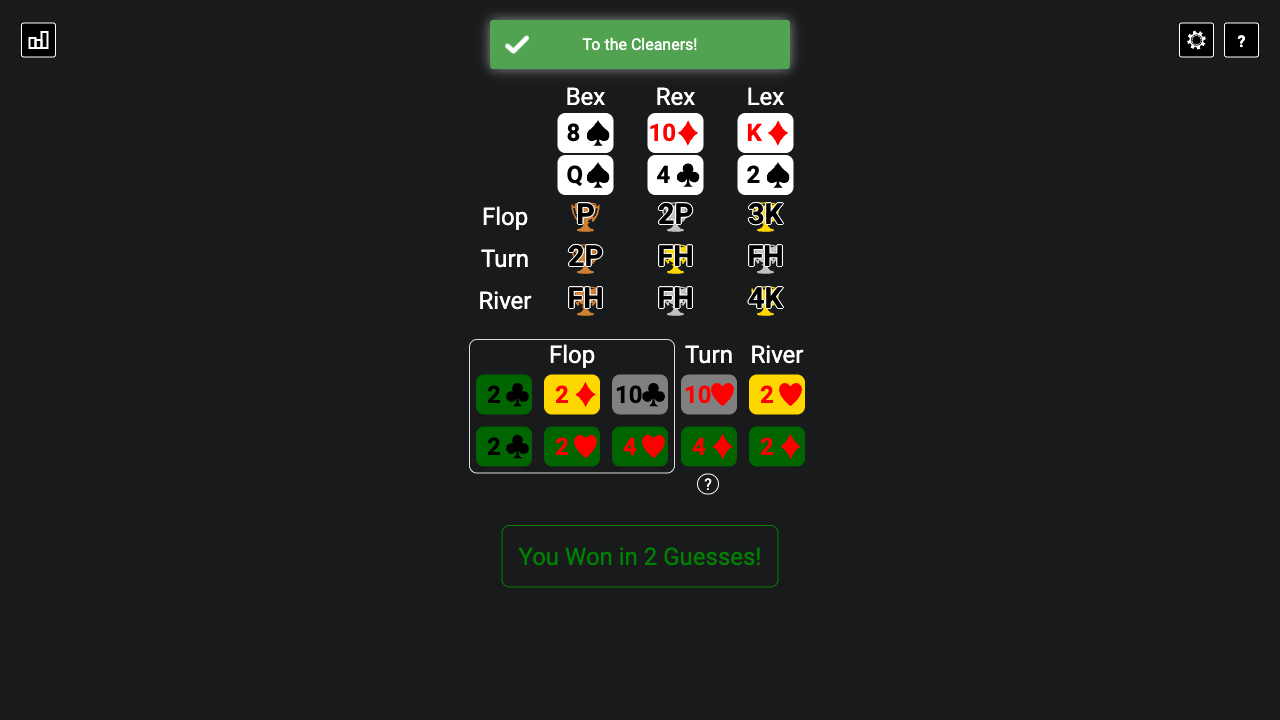
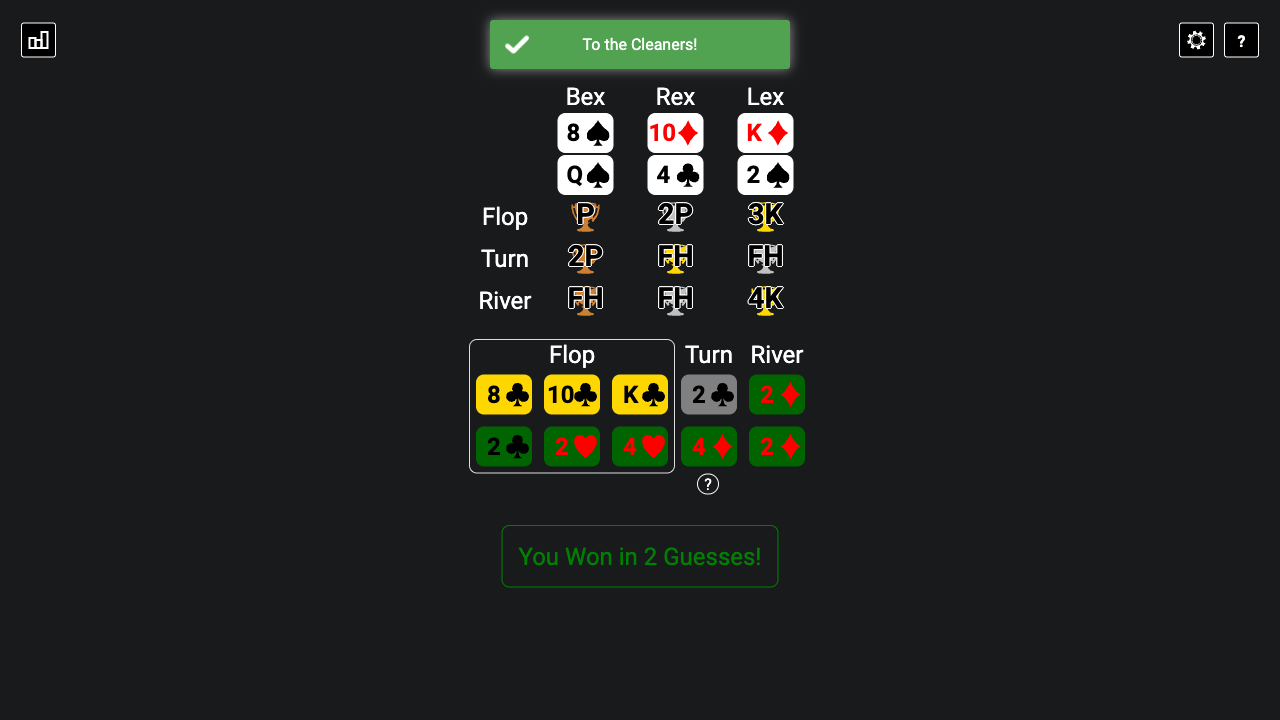
remove obvious kickers

Changed region(s): [[0.375, 0.5194, 0.6562, 0.5806]]

diff --git a/src/pokle/Pokle.test.ts b/src/pokle/Pokle.test.ts
@@ -7,7 +7,7 @@ describe("Pokle", () => {
     it("should have 46 valid cards", () => {
       const players: Players = [
         {
-          cards: [new Card("2", "♠"), new Card("3", "♠")],
+          cards: [new Card("2", "♠"), new Card("5", "♠")],
           name: "Jaz",
           positions: {
             flop: 1,
@@ -16,7 +16,7 @@ describe("Pokle", () => {
           },
         },
         {
-          cards: [new Card("4", "♠"), new Card("5", "♠")],
+          cards: [new Card("10", "♠"), new Card("K", "♠")],
           name: "Baz",
           positions: {
             flop: 2,
@@ -25,7 +25,7 @@ describe("Pokle", () => {
           },
         },
         {
-          cards: [new Card("6", "♠"), new Card("7", "♠")],
+          cards: [new Card("A", "♠"), new Card("8", "♠")],
           name: "Taz",
           positions: {
             flop: 3,
@@ -38,6 +38,42 @@ describe("Pokle", () => {
       const pokle = new Pokle(0, players);
       pokle.getAllValidCards();
       expect((pokle.validCards ?? []).length).toBe(46);
+    });
+
+    it("should have 42 valid cards because all the 2s are obvious kickers", () => {
+      const players: Players = [
+        {
+          cards: [new Card("7", "♠"), new Card("9", "♠")],
+          name: "Jaz",
+          positions: {
+            flop: 1,
+            river: 2,
+            turn: 3,
+          },
+        },
+        {
+          cards: [new Card("10", "♠"), new Card("J", "♠")],
+          name: "Baz",
+          positions: {
+            flop: 2,
+            river: 3,
+            turn: 1,
+          },
+        },
+        {
+          cards: [new Card("K", "♠"), new Card("K", "♥")],
+          name: "Taz",
+          positions: {
+            flop: 3,
+            river: 1,
+            turn: 2,
+          },
+        },
+      ];
+
+      const pokle = new Pokle(0, players);
+      pokle.getAllValidCards();
+      expect((pokle.validCards ?? []).length).toBe(42);
     });
   });
 

diff --git a/src/pokle/Pokle.ts b/src/pokle/Pokle.ts
@@ -1,16 +1,22 @@
 import { DateTime } from "luxon";
-import { Card, CARD_RANKS, CARD_SUITS, CardString } from "../poker/Card";
+import { timeout } from "../playwright/utils";
+import {
+  Card,
+  CARD_RANKS,
+  CARD_SUITS,
+  CardString,
+  hexCardRankRecord,
+} from "../poker/Card";
 import { Hand } from "../poker/Hand";
 import {
-  FlopCards,
-  TurnCards,
-  RiverCards,
   BoardCards,
-  PlayerCards,
-  Stage,
+  FlopCards,
   getBoardFromJson,
+  PlayerCards,
+  RiverCards,
+  Stage,
+  TurnCards,
 } from "../poker/Poker";
-import { timeout } from "../playwright/utils";
 
 export type PlayerPosition = 1 | 2 | 3;
 
@@ -65,7 +71,8 @@ export class Pokle {
   }
 
   public getAllValidCards() {
-    // TODO remove obvious kickers (cannot be part of any straight)
+    const playersCards = this.players.flatMap((player) => player.cards);
+
     const usedCards: Record<string, boolean> = {};
     this.players.forEach((player) => {
       player.cards.forEach((card) => {
@@ -75,6 +82,22 @@ export class Pokle {
 
     const validCards: Card[] = [];
     for (const rank of CARD_RANKS) {
+      // check that this rank is not an obvious kicker
+      // meaning that it could form a hand with at least one player's cards
+      const isObviousKicker = playersCards.every((playerCard) => {
+        const couldBePartOfTheSameStraight = Hand.couldBePartOfTheSameStraight(
+          hexCardRankRecord[rank],
+          playerCard.hexRank
+        );
+        const isSameRank = hexCardRankRecord[rank] === playerCard.hexRank;
+        const couldBeKicker =
+          couldBePartOfTheSameStraight === false && isSameRank === false;
+        return couldBeKicker;
+      });
+
+      if (isObviousKicker) {
+        continue;
+      }
       for (const suit of CARD_SUITS) {
         const card = new Card(rank, suit);
         if (usedCards[card.toString()]) {

diff --git a/src/poker/Hand.test.ts b/src/poker/Hand.test.ts
@@ -360,4 +360,22 @@ describe("Hand", () => {
       expect(bestHand.hexScore).toBe("2ee229");
     });
   });
+
+  describe("Could be part of the same straight", () => {
+    it("should return true", () => {
+      expect(Hand.couldBePartOfTheSameStraight("3", "7")).toBe(true);
+    });
+    it("should return false because they are too far from each other", () => {
+      expect(Hand.couldBePartOfTheSameStraight("2", "7")).toBe(false);
+    });
+    it("should return false because they have the same rank", () => {
+      expect(Hand.couldBePartOfTheSameStraight("7", "7")).toBe(false);
+    });
+    it("should return true", () => {
+      expect(Hand.couldBePartOfTheSameStraight("b", "e")).toBe(true);
+    });
+    it("should return true because ace can be 1", () => {
+      expect(Hand.couldBePartOfTheSameStraight("3", "e")).toBe(true);
+    });
+  });
 });

diff --git a/src/poker/Hand.ts b/src/poker/Hand.ts
@@ -250,4 +250,24 @@ export class Hand {
   public isWorseThan(hand: Hand): boolean {
     return this.hexScore < hand.hexScore;
   }
+
+  public static couldBePartOfTheSameStraight(
+    hexRank1: HexCardRank,
+    hexRank2: HexCardRank
+  ): boolean {
+    if (hexRank1 === hexRank2) {
+      return false;
+    }
+    if (hexRank1 === "e") {
+      if (Math.abs(1 - parseInt(hexRank2, 16)) <= 4) {
+        return true;
+      }
+    }
+    if (hexRank2 === "e") {
+      if (Math.abs(1 - parseInt(hexRank1, 16)) <= 4) {
+        return true;
+      }
+    }
+    return Math.abs(parseInt(hexRank1, 16) - parseInt(hexRank2, 16)) <= 4;
+  }
 }
